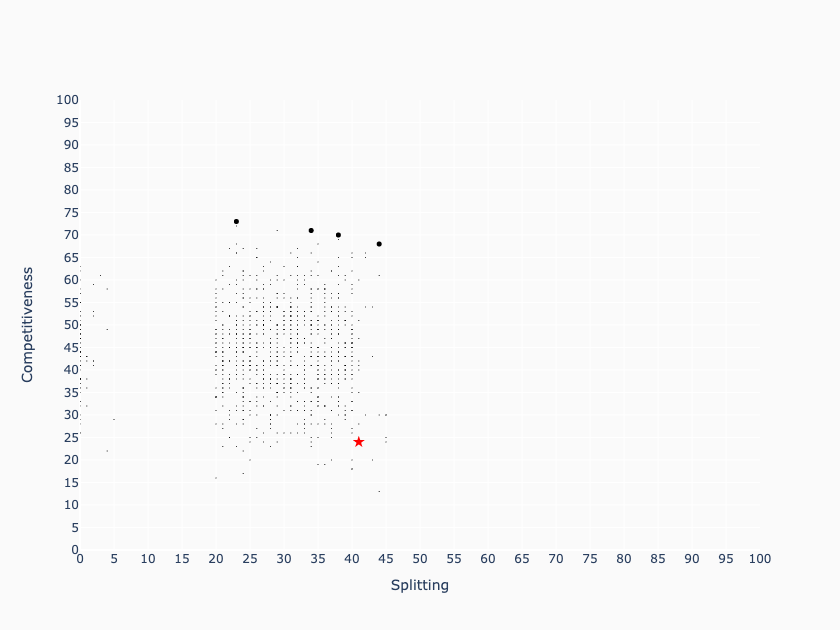
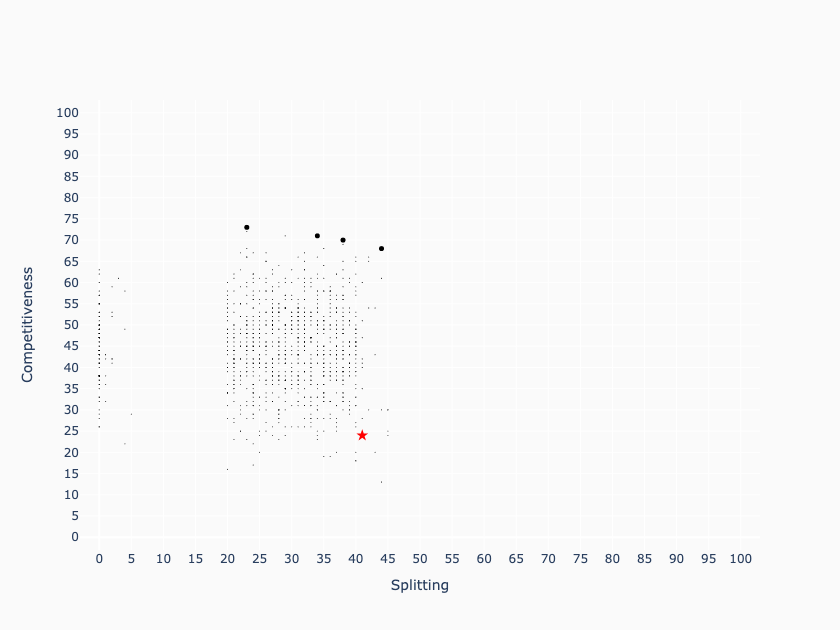
WIP

diff --git a/scripts/make_frontier_plots.py b/scripts/make_frontier_plots.py
@@ -116,10 +116,12 @@ def main() -> None:
             "height": plot_height,
             "yaxis": {
                 "title_text": ylabel,
-                "range": [0, 100],
+                "range": [-3, 103],
+                # "range": [0, 100],
                 "showgrid": True,
                 "zeroline": True,
-                "dtick": 5,
+                "tickvals": [i for i in range(0, 101, 5)],
+                # "dtick": 5,
                 "gridcolor": "rgb(255, 255, 255)",
                 "gridwidth": 1,
                 "zerolinecolor": "rgb(255, 255, 255)",
@@ -127,10 +129,12 @@ def main() -> None:
             },
             "xaxis": {
                 "title_text": xlabel,
-                "range": [0, 100],
+                "range": [-3, 103],
+                # "range": [0, 100],
                 "showgrid": True,
                 "zeroline": True,
-                "dtick": 5,
+                "tickvals": [i for i in range(0, 101, 5)],
+                # "dtick": 5,
                 "gridcolor": "rgb(255, 255, 255)",
                 "gridwidth": 1,
                 "zerolinecolor": "rgb(255, 255, 255)",
